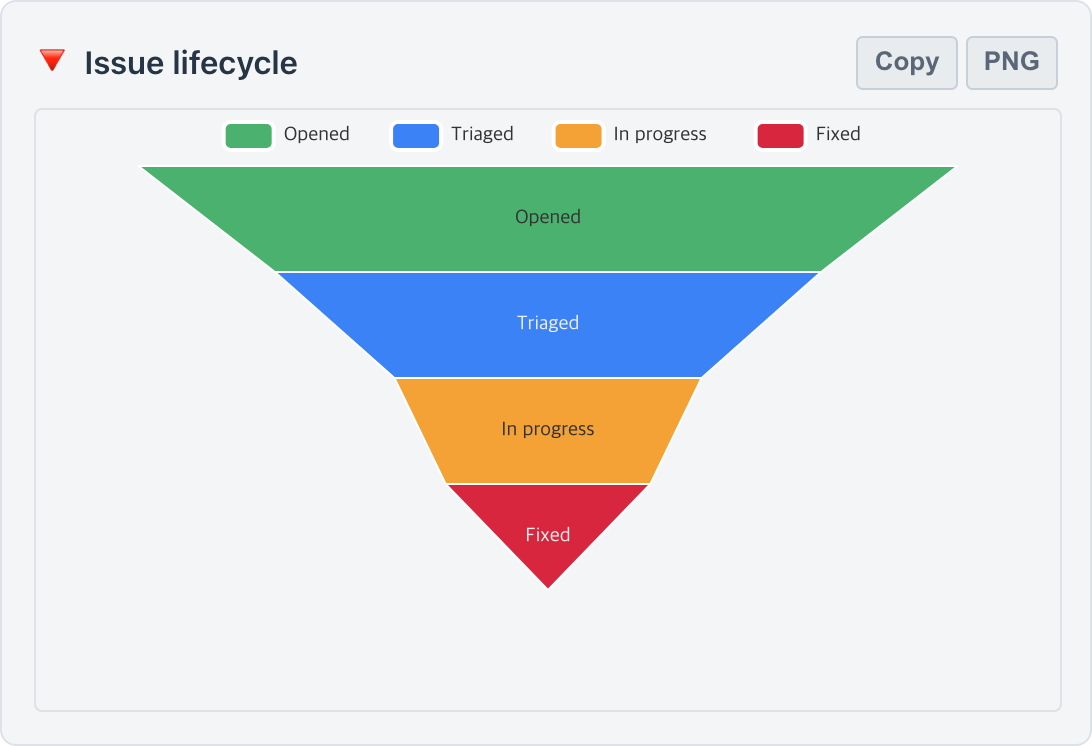
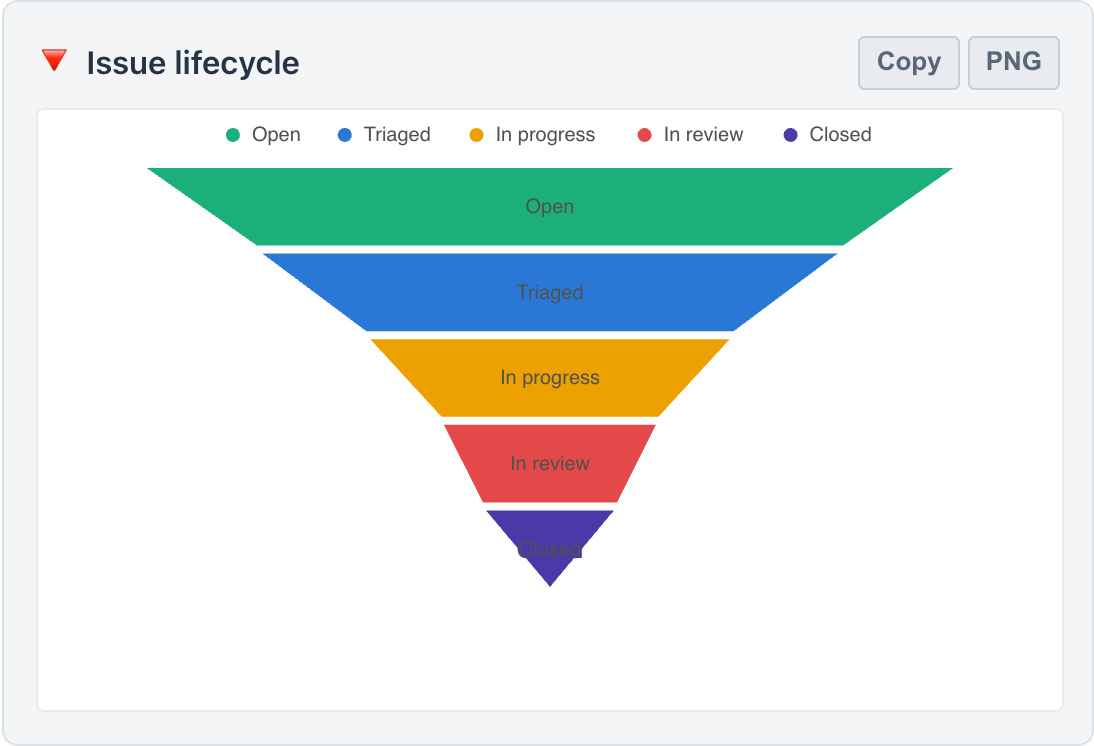
feat(chat,mcp): polish chat charts, default rose color and value sort, add kosis catalog entry

Changed region(s): [[0.1245, 0.1542, 0.8718, 0.8016], [0.0311, 0.0617, 0.2802, 0.1233]]

diff --git a/src/main/frontend/playground/chat-markdown-enhance.js b/src/main/frontend/playground/chat-markdown-enhance.js
@@ -477,7 +477,118 @@ registerActionCard('map', (data) => {
     return card;
 });
 
-const ECHARTS_PALETTE = ['#4ab26e', '#3b82f6', '#f4a236', '#d7263d', '#a855f7', '#14b8a6'];
+const ECHARTS_PALETTE = ['#1baf7a', '#2a78d6', '#eda100', '#e34948', '#4a3aa7', '#eb6834', '#e87ba4', '#008300'];
+const CHART_SEQUENTIAL = ['#e7f6f0', '#a9e3cc', '#5cc9a0', '#1baf7a', '#0e8259', '#075c3f'];
+const CHART_SURFACE = '#ffffff';
+const CHART_INK = { primary: '#0b0b0b', secondary: '#52514e', muted: '#898781', grid: '#e7e6e1', axis: '#c3c2b7' };
+
+function hexToRgba(hex, alpha) {
+    const h = String(hex).replace('#', '');
+    const n = parseInt(h.length === 3 ? h.replace(/./g, '$&$&') : h, 16);
+    return 'rgba(' + ((n >> 16) & 255) + ',' + ((n >> 8) & 255) + ',' + (n & 255) + ',' + alpha + ')';
+}
+
+function chartSeriesColor(option, index) {
+    const palette = Array.isArray(option.color) && option.color.length ? option.color : ECHARTS_PALETTE;
+    return palette[index % palette.length];
+}
+
+function polishChartAxes(axis, fallbackType) {
+    (Array.isArray(axis) ? axis : [axis]).forEach((a) => {
+        if (!a || typeof a !== 'object') return;
+        a.axisLabel = Object.assign({ color: CHART_INK.muted, fontSize: 11 }, a.axisLabel);
+        if ((a.type || fallbackType) === 'value') {
+            a.splitLine = Object.assign({ lineStyle: { color: CHART_INK.grid } }, a.splitLine);
+            a.axisLine = Object.assign({ show: false }, a.axisLine);
+        } else {
+            a.axisLine = Object.assign({ lineStyle: { color: CHART_INK.axis } }, a.axisLine);
+            a.axisTick = Object.assign({ show: false }, a.axisTick);
+        }
+    });
+}
+
+function polishChartOption(option) {
+    if (!option || typeof option !== 'object') return option;
+    option.textStyle = Object.assign({ fontFamily: 'inherit', color: CHART_INK.secondary }, option.textStyle);
+    option.tooltip = Object.assign({
+        backgroundColor: 'rgba(255,255,255,0.96)',
+        borderWidth: 0,
+        padding: [8, 12],
+        textStyle: { color: CHART_INK.primary, fontSize: 12 },
+        extraCssText: 'border-radius:10px;box-shadow:0 6px 20px rgba(15,23,42,0.14);',
+    }, option.tooltip);
+    if (option.legend) {
+        option.legend = Object.assign({ icon: 'circle', itemWidth: 9, itemHeight: 9, itemGap: 14,
+            textStyle: { color: CHART_INK.secondary, fontSize: 11 } }, option.legend);
+    }
+    polishChartAxes(option.xAxis, 'category');
+    polishChartAxes(option.yAxis, 'value');
+    polishChartAxes(option.angleAxis, 'category');
+    polishChartAxes(option.radiusAxis, 'value');
+    if (option.radar) {
+        option.radar.axisName = Object.assign({ color: CHART_INK.secondary, fontSize: 11 }, option.radar.axisName);
+        option.radar.axisLine = Object.assign({ lineStyle: { color: CHART_INK.grid } }, option.radar.axisLine);
+        option.radar.splitLine = Object.assign({ lineStyle: { color: CHART_INK.grid } }, option.radar.splitLine);
+    }
+    if (option.animationDuration == null) option.animationDuration = 700;
+    if (option.animationEasing == null) option.animationEasing = 'cubicOut';
+    const seriesList = Array.isArray(option.series) ? option.series : (option.series ? [option.series] : []);
+    const lastInStack = {};
+    seriesList.forEach((s) => { if (s && s.type === 'bar' && s.stack) lastInStack[s.stack] = s; });
+    seriesList.forEach((s, i) => {
+        if (!s || typeof s !== 'object') return;
+        const color = chartSeriesColor(option, i);
+        if (s.type === 'bar' && s.coordinateSystem === 'polar') {
+            if (s.roundCap == null) s.roundCap = true;
+            s.itemStyle = Object.assign({ borderColor: CHART_SURFACE, borderWidth: 2 }, s.itemStyle);
+            if (s.animationDelay == null) s.animationDelay = (idx) => Math.min(idx * 60, 600);
+        } else if (s.type === 'bar') {
+            s.itemStyle = Object.assign(
+                { borderRadius: !s.stack || lastInStack[s.stack] === s ? [4, 4, 0, 0] : 0 },
+                s.stack ? { borderColor: CHART_SURFACE, borderWidth: 1 } : null,
+                s.itemStyle);
+            if (s.animationDelay == null) s.animationDelay = (idx) => Math.min(idx * 40, 400);
+        } else if (s.type === 'line') {
+            s.lineStyle = Object.assign({ width: 2, cap: 'round', join: 'round' }, s.lineStyle);
+            if (s.symbol == null) s.symbol = 'circle';
+            if (s.symbolSize == null) s.symbolSize = 8;
+            s.itemStyle = Object.assign({ borderColor: CHART_SURFACE, borderWidth: 2 }, s.itemStyle);
+            if (s.showSymbol == null) s.showSymbol = (Array.isArray(s.data) ? s.data.length : 0) <= 24;
+            if (s.areaStyle && s.areaStyle.color == null) {
+                const peak = Math.min((s.areaStyle.opacity == null ? 0.25 : s.areaStyle.opacity) + 0.04, 0.32);
+                s.areaStyle = { color: new echarts.graphic.LinearGradient(0, 0, 0, 1, [
+                    { offset: 0, color: hexToRgba(color, peak) },
+                    { offset: 1, color: hexToRgba(color, 0.02) },
+                ]) };
+            }
+            s.emphasis = Object.assign({ focus: 'series' }, s.emphasis);
+        } else if (s.type === 'pie') {
+            s.itemStyle = Object.assign({ borderColor: CHART_SURFACE, borderWidth: 2, borderRadius: 4 }, s.itemStyle);
+            s.label = Object.assign({ color: CHART_INK.secondary }, s.label);
+            s.emphasis = Object.assign({ scaleSize: 4, itemStyle: { shadowBlur: 12, shadowColor: 'rgba(0,0,0,0.16)' } }, s.emphasis);
+        } else if (s.type === 'scatter') {
+            s.itemStyle = Object.assign({ borderColor: CHART_SURFACE, borderWidth: 1.5, opacity: 0.92 }, s.itemStyle);
+        } else if (s.type === 'radar') {
+            s.lineStyle = Object.assign({ width: 2 }, s.lineStyle);
+            if (s.symbolSize == null) s.symbolSize = 5;
+            if (s.areaStyle == null) s.areaStyle = { opacity: 0.12 };
+        } else if (s.type === 'heatmap') {
+            s.itemStyle = Object.assign({ borderColor: CHART_SURFACE, borderWidth: 2, borderRadius: 3 }, s.itemStyle);
+        } else if (s.type === 'funnel') {
+            s.itemStyle = Object.assign({ borderColor: CHART_SURFACE, borderWidth: 2 }, s.itemStyle);
+            if (s.gap == null) s.gap = 2;
+        } else if (s.type === 'graph') {
+            s.itemStyle = Object.assign({ borderColor: CHART_SURFACE, borderWidth: 2 }, s.itemStyle);
+            s.label = Object.assign({ color: CHART_INK.secondary }, s.label);
+        } else if (s.type === 'sankey') {
+            s.label = Object.assign({ color: CHART_INK.secondary, fontSize: 11 }, s.label);
+            s.itemStyle = Object.assign({ borderRadius: 3 }, s.itemStyle);
+        } else if (s.type === 'treemap') {
+            s.label = Object.assign({ fontSize: 11 }, s.label);
+        }
+    });
+    return option;
+}
 
 function echartsCard(icon, title, option) {
     const card = actionCardShell(icon, title || 'Chart');
@@ -486,7 +597,7 @@ function echartsCard(icon, title, option) {
     card.appendChild(box);
     try {
         const chart = echarts.init(box, null, { renderer: 'canvas' });
-        chart.setOption(option);
+        chart.setOption(polishChartOption(option));
         if (window.ResizeObserver) new ResizeObserver(() => chart.resize()).observe(box);
         setTimeout(() => chart.resize(), 80);
         addImageExport(card, () => chart.getDataURL({ type: 'png', pixelRatio: 2, backgroundColor: '#fff' }),
@@ -508,12 +619,41 @@ function normalizeChartSeries(rawSeries, seriesName) {
     return Array.isArray(series) ? series : [];
 }
 
+function normalizeSortOrder(value) {
+    const s = value == null ? '' : String(value).trim().toLowerCase();
+    return s === 'asc' || s === 'desc' || s === 'none' ? s : '';
+}
+
+function labelsHaveInherentOrder(labels) {
+    return labels.length > 0 && labels.every((l) => {
+        const s = String(l).trim();
+        return /\d/.test(s) || /^[NSEW]{1,3}$/i.test(s) || /^[북남동서]{1,3}$/.test(s)
+            || /^(?:jan|feb|mar|apr|may|jun|jul|aug|sep|oct|nov|dec|mon|tue|wed|thu|fri|sat|sun)[a-z]*\.?$/i.test(s)
+            || /^[월화수목금토일](?:요일)?$/.test(s);
+    });
+}
+
+function sortCategoriesByValue(labels, values, order) {
+    const indexes = labels.map((_, i) => i);
+    indexes.sort((a, b) => {
+        const diff = (Number(values[a]) || 0) - (Number(values[b]) || 0);
+        return order === 'desc' ? -diff : diff;
+    });
+    return { labels: indexes.map((i) => labels[i]), values: indexes.map((i) => values[i]) };
+}
+
 function buildChartOption(data) {
     if (data.echartsOption && typeof data.echartsOption === 'object') return data.echartsOption;
     let type = String(data.chartType || 'bar').toLowerCase();
     if (CHART_TYPES.indexOf(type) === -1) type = 'bar';
-    const labels = Array.isArray(data.labels) ? data.labels : [];
-    const series = normalizeChartSeries(data.series, data.seriesName);
+    let labels = Array.isArray(data.labels) ? data.labels : [];
+    let series = normalizeChartSeries(data.series, data.seriesName);
+    const sortOrder = normalizeSortOrder(data.sort);
+    if ((type === 'bar' || type === 'pie') && (sortOrder === 'asc' || sortOrder === 'desc') && series.length === 1 && Array.isArray(series[0].data)) {
+        const sorted = sortCategoriesByValue(labels, series[0].data, sortOrder);
+        labels = sorted.labels;
+        series = [{ name: series[0].name, data: sorted.values }];
+    }
     const itemTrigger = type === 'pie' || type === 'radar' || type === 'gauge';
     const option = {
         color: ECHARTS_PALETTE,
@@ -535,8 +675,13 @@ function buildChartOption(data) {
         const value = Number(raw != null ? raw : (Array.isArray(data.series) ? data.series[0] : 0)) || 0;
         const max = Number(data.max) > 0 ? Number(data.max) : Math.max(100, Math.ceil(value / 10) * 10);
         option.series = [{
-            type: 'gauge', min: 0, max, progress: { show: true }, axisLine: { lineStyle: { width: 12 } },
-            detail: { valueAnimation: true, fontSize: 22, formatter: '{value}' },
+            type: 'gauge', min: 0, max, startAngle: 210, endAngle: -30,
+            progress: { show: true, roundCap: true, width: 14 },
+            axisLine: { roundCap: true, lineStyle: { width: 14, color: [[1, '#edece7']] } },
+            pointer: { show: false }, axisTick: { show: false }, splitLine: { show: false }, axisLabel: { show: false },
+            title: { color: CHART_INK.secondary, fontSize: 12, offsetCenter: [0, '30%'] },
+            detail: { valueAnimation: true, fontSize: 30, fontWeight: 600, color: CHART_INK.primary,
+                formatter: '{value}', offsetCenter: [0, '-6%'] },
             data: [{ value, name: (labels[0] != null ? String(labels[0]) : (data.seriesName || '')) }],
         }];
         return option;
@@ -546,7 +691,8 @@ function buildChartOption(data) {
         series.forEach((s) => (Array.isArray(s.data) ? s.data : []).forEach((v) => {
             const n = Number(v); if (isFinite(n) && n > max) max = n;
         }));
-        option.radar = { indicator: labels.map((l) => ({ name: String(l), max: max > 0 ? max : 1 })) };
+        option.radar = { indicator: labels.map((l) => ({ name: String(l), max: max > 0 ? max : 1 })),
+            center: ['50%', series.length > 1 ? '56%' : '50%'], radius: series.length > 1 ? '58%' : '68%' };
         option.series = [{ type: 'radar', data: series.map((s) => ({ name: s.name, value: s.data })) }];
         return option;
     }
@@ -573,7 +719,10 @@ function buildChartOption(data) {
         data: s.data,
         smooth: lineish,
         areaStyle: type === 'area' ? { opacity: 0.25 } : (type === 'line' && series.length === 1 ? { opacity: 0.12 } : undefined),
-        barMaxWidth: 46,
+        barMaxWidth: 24,
+        label: type === 'bar' && series.length === 1 && labels.length > 0 && labels.length <= 8
+            ? { show: true, position: 'top', color: CHART_INK.muted, fontSize: 11, fontWeight: 600,
+                formatter: (p) => (isFinite(Number(p.value)) ? Number(p.value).toLocaleString() : p.value) } : undefined,
     }));
     return option;
 }
@@ -592,11 +741,11 @@ function buildCandlestickOption(data) {
         yAxis: { type: 'value', scale: true },
         series: [{
             type: 'candlestick', data: ohlc,
-            itemStyle: { color: '#4ab26e', color0: '#d7263d', borderColor: '#4ab26e', borderColor0: '#d7263d' },
+            itemStyle: { color: '#0ca30c', color0: '#d03b3b', borderColor: '#0ca30c', borderColor0: '#d03b3b' },
         }],
     };
     if (data.volume) {
-        opt.series.push({ type: 'bar', data: rows.map((r) => Number(r.v) || 0), itemStyle: { color: 'rgba(59,130,246,0.35)' } });
+        opt.series.push({ type: 'bar', data: rows.map((r) => Number(r.v) || 0), itemStyle: { color: 'rgba(42,120,214,0.28)' } });
     }
     return opt;
 }
@@ -617,7 +766,7 @@ function buildHeatmapOption(data) {
         xAxis: { type: 'category', data: xLabels, splitArea: { show: true } },
         yAxis: { type: 'category', data: yLabels, splitArea: { show: true } },
         visualMap: { min: 0, max: max || 1, calculable: true, orient: 'horizontal', left: 'center', bottom: 0,
-            inRange: { color: ['#e9f5ee', '#4ab26e', '#1f7a44'] } },
+            inRange: { color: CHART_SEQUENTIAL } },
         series: [{ type: 'heatmap', data: cells, label: { show: cells.length <= 80 }, emphasis: { itemStyle: { shadowBlur: 6 } } }],
     };
 }
@@ -711,9 +860,16 @@ function buildGraphOption(data) {
 registerActionCard('graph', (data) => echartsCard('🔗', data.title || 'Graph', buildGraphOption(data)));
 
 function buildWindRoseOption(data) {
-    const dirs = Array.isArray(data.directions) ? data.directions.map(String) : [];
-    const series = normalizeChartSeries(data.series, data.seriesName);
+    let dirs = Array.isArray(data.directions) ? data.directions.map(String) : [];
+    let series = normalizeChartSeries(data.series, data.seriesName);
     const stacked = series.length > 1;
+    const explicitOrder = normalizeSortOrder(data.sort);
+    const order = explicitOrder || (!stacked && !labelsHaveInherentOrder(dirs) ? 'asc' : 'none');
+    if ((order === 'asc' || order === 'desc') && series.length === 1 && Array.isArray(series[0].data)) {
+        const sorted = sortCategoriesByValue(dirs, series[0].data, order);
+        dirs = sorted.labels;
+        series = [{ name: series[0].name, data: sorted.values }];
+    }
     const option = {
         color: ECHARTS_PALETTE,
         tooltip: { trigger: 'item' },
@@ -724,6 +880,7 @@ function buildWindRoseOption(data) {
         series: series.map((s) => ({
             type: 'bar', name: s.name, data: s.data, coordinateSystem: 'polar',
             stack: stacked ? 'total' : undefined,
+            colorBy: stacked ? 'series' : 'data',
         })),
     };
     if (stacked) option.legend = { top: 0, type: 'scroll' };
@@ -748,10 +905,11 @@ function buildChoroplethOption(data, mapName) {
         visualMap: {
             min, max: max > min ? max : min + 1, calculable: true,
             left: 'left', bottom: 0, orient: 'horizontal',
-            inRange: { color: ['#e9f5ee', '#4ab26e', '#1f7a44'] },
+            inRange: { color: CHART_SEQUENTIAL },
         },
         series: [{
             type: 'map', map: mapName, roam: true,
+            layoutCenter: ['50%', '54%'], layoutSize: '92%',
             nameProperty: data.nameProperty || 'name',
             label: { show: values.length <= 20 },
             emphasis: { label: { show: true }, itemStyle: { areaColor: '#f4a236' } },

diff --git a/src/main/frontend/playground/chat-styles.css b/src/main/frontend/playground/chat-styles.css
@@ -470,6 +470,7 @@ vaadin-details-summary::part(content) {
     border: 1px solid var(--lumo-contrast-10pct);
     border-radius: var(--lumo-border-radius-m);
     overflow: hidden;
+    background: var(--lumo-base-color);
 }
 
 .saip-action-pointmap {

diff --git a/src/test/java/org/springaicommunity/playground/service/mcp/catalog/McpCategoryServiceTest.java b/src/test/java/org/springaicommunity/playground/service/mcp/catalog/McpCategoryServiceTest.java
@@ -32,7 +32,7 @@ class McpCategoryServiceTest {
         List<CategoryDef> defs = service.getBuiltInCategories();
         assertThat(defs).extracting(CategoryDef::id)
                 .startsWith("EXAMPLE", "PRODUCTIVITY", "STORAGE", "COMMUNICATION", "PROJECT_MGMT",
-                        "DEV", "SEARCH", "CLOUD", "DATABASE", "FINANCE", "CRM", "DESIGN", "UTIL")
+                        "DEV", "SEARCH", "CLOUD", "DATABASE", "PUBLIC_DATA", "FINANCE", "CRM", "DESIGN", "UTIL")
                 .endsWith("CUSTOM");
         assertThat(defs).allMatch(CategoryDef::builtIn);
     }

diff --git a/src/test/java/org/springaicommunity/playground/service/mcp/catalog/McpCatalogServiceTest.java b/src/test/java/org/springaicommunity/playground/service/mcp/catalog/McpCatalogServiceTest.java
@@ -53,7 +53,7 @@ class McpCatalogServiceTest {
     @Test
     void tierSplitMatchesCatalogSeed() {
         assertThat(service.getByTier(1)).hasSize(18);
-        assertThat(service.getByTier(2)).hasSize(39);
+        assertThat(service.getByTier(2)).hasSize(40);
     }
 
     @Test
